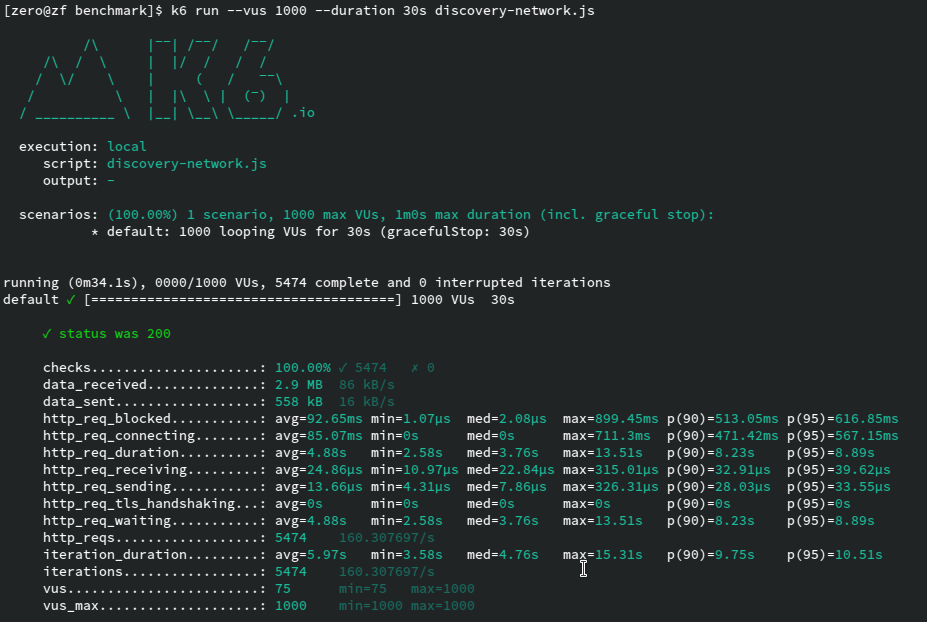
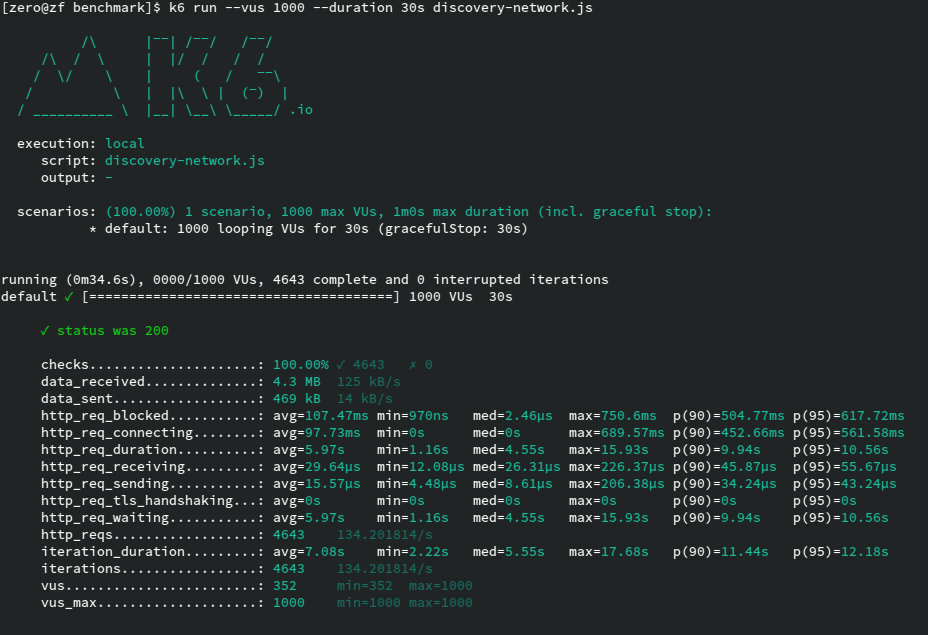
- Update benchmark test

diff --git a/benchmark/discovery-network.js b/benchmark/discovery-network.js
@@ -2,7 +2,7 @@ import http from 'k6/http';
 import { check, sleep } from 'k6';
 
 export default function() {
-  let res = http.get('http://zpi:8888/api/discovery/bacnet/network');
+  let res = http.get('http://zpi:8888/api/discover/bacnet/network');
   check(res, { 'status was 200': (r) => r.status === 200 });
   sleep(1);
 }
